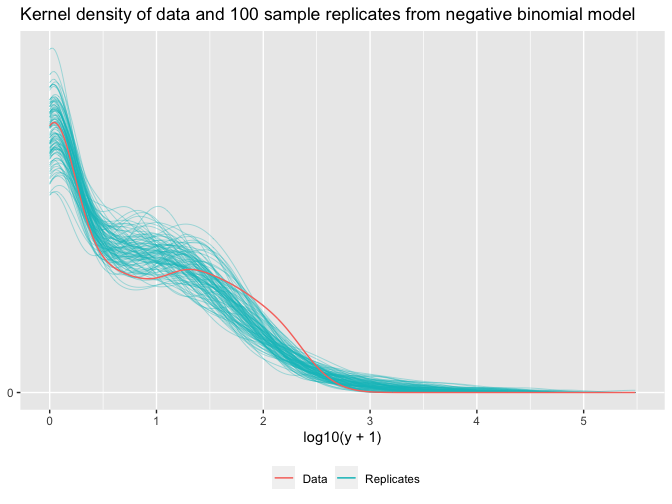
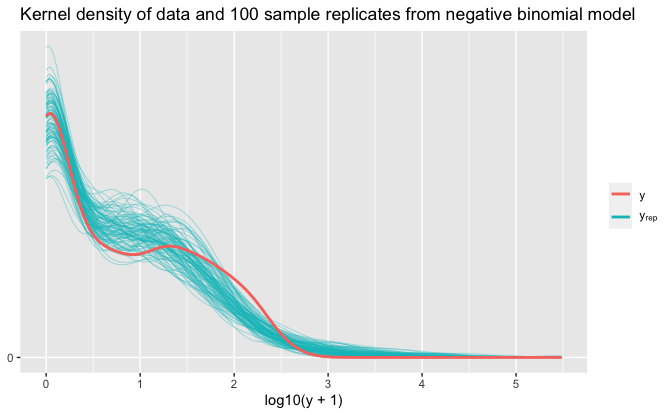
Initial commit

Changed region(s): [[0.0, 0.0, 1.0, 0.9253], [0.375, 0.9253, 0.625, 0.9831], [0.0, 0.7518, 0.0312, 0.7807]]

diff --git a/Roaches/roaches_tv.md b/Roaches/roaches_tv.md
@@ -1,7 +1,7 @@
 Regression and Other Stories: Roaches
 ================
 Andrew Gelman, Jennifer Hill, Aki Vehtari
-2021-02-25
+2021-02-26
 
 -   [15 Other generalized linear
     models](#15-other-generalized-linear-models)
@@ -36,24 +36,26 @@ file_common <- here::here("_common.R")
 
 # Functions
   # Plot kernel density of data and sample replicates
-plot_density_overlay <- function(mapping, data, data_rep) {
-  ggplot(mapping = mapping) +
+plot_density_overlay <- function(y, y_rep) {
+  ggplot(mapping = aes(y)) +
     stat_density(
       aes(group = rep, color = "y_rep"),
-      data = data_rep,
+      data = 
+        seq_len(nrow(y_rep)) %>% map_dfr(~ tibble(rep = ., y = y_rep[., ])),
       geom = "line",
       position = "identity",
       alpha = 0.5,
       size = 0.25
     ) +
-    stat_density(aes(color = "y"), data = data, geom = "line") +
+    stat_density(aes(color = "y"), data = tibble(y), geom = "line", size = 1) +
     scale_y_continuous(breaks = 0) +
     scale_color_discrete(
       breaks = c("y", "y_rep"),
-      labels = c("Data", "Replicates")
+      labels = c("y", expression(y[rep]))
     ) +
-    theme(legend.position = "bottom") +
+    theme(legend.text.align = 0) +
     labs(
+      x = NULL,
       y = NULL,
       color = NULL
     )
@@ -187,10 +189,6 @@ y_rep_nbinom <- posterior_predict(fit_nbinom)
 n_sims <- nrow(y_rep_nbinom)
 n_rep <- 100
 sims_sample <- sample(n_sims, n_rep)
-
-y_rep_nbinom_tidy <- 
-  seq_len(n_sims) %>% 
-  map_dfr(~ tibble(rep = ., y = y_rep_nbinom[., ]))
 ```
 
 Kernel density of data and 100 sample replicates from negative binomial
@@ -198,16 +196,16 @@ model.
 
 ``` r
 plot_density_overlay(
-  mapping = aes(log10(y + 1)), 
-  data = roaches,
-  data_rep = y_rep_nbinom_tidy %>% filter(rep %in% sims_sample)
+  y = log10(roaches$y + 1),
+  y_rep = log10(y_rep_nbinom[sims_sample, ] + 1)
 ) +
   scale_x_continuous(breaks = scales::breaks_width(1)) +
   labs(
     title = 
       str_glue(
         "Kernel density of data and {n_rep} sample replicates from negative binomial model"
-      )
+      ),
+    x = "log10(y + 1)"
   )
 ```
 
@@ -254,12 +252,9 @@ y_prop_0
     #> [1] 0.359
 
 ``` r
-y_rep_nbinom_prop_0 <- 
-  y_rep_nbinom_tidy %>% 
-  group_by(rep) %>% 
-  summarize(y_prop_0 = prop_0(y))
+y_rep_nbinom_prop_0 <- apply(y_rep_nbinom, 1, prop_0)
 
-summary(y_rep_nbinom_prop_0$y_prop_0)
+summary(y_rep_nbinom_prop_0)
 ```
 
     #>    Min. 1st Qu.  Median    Mean 3rd Qu.    Max. 
@@ -272,7 +267,7 @@ proportion in the data of 0.36.
 Distribution of proportion of zero counts in replicates.
 
 ``` r
-y_rep_nbinom_prop_0 %>% 
+tibble(y_prop_0 = y_rep_nbinom_prop_0) %>% 
   ggplot(aes(y_prop_0)) +
   geom_histogram(binwidth = 0.015) +
   geom_vline(xintercept = y_prop_0, color = "red") +
@@ -305,12 +300,9 @@ y_max
     #> [1] 357
 
 ``` r
-y_rep_nbinom_max <- 
-  y_rep_nbinom_tidy %>% 
-  group_by(rep) %>% 
-  summarize(y_max = max(y))
+y_rep_nbinom_max <- apply(y_rep_nbinom, 1, max)
 
-summary(y_rep_nbinom_max$y_max)
+summary(y_rep_nbinom_max)
 ```
 
     #>    Min. 1st Qu.  Median    Mean 3rd Qu.    Max. 
@@ -403,25 +395,21 @@ Simulate data for Poisson model.
 set.seed(SEED)
 
 y_rep_pois <- posterior_predict(fit_pois)
-
-y_rep_pois_tidy <- 
-  seq_len(n_sims) %>% 
-  map_dfr(~ tibble(rep = ., y = y_rep_pois[., ]))
 ```
 
 Kernel density of data and 100 sample replicates from Poisson model.
 
 ``` r
 plot_density_overlay(
-  mapping = aes(log10(y + 1)), 
-  data = roaches,
-  data_rep = y_rep_pois_tidy %>% filter(rep %in% sims_sample)
+  y = log10(roaches$y + 1),
+  y_rep = log10(y_rep_pois[sims_sample, ] + 1)
 ) +
   labs(
     title = 
       str_glue(
         "Kernel density of data and {n_rep} sample replicates from Poisson model"
-      )
+      ),
+    x = "log10(y + 1)"
   )
 ```
 
@@ -452,12 +440,9 @@ ppc_dens_overlay(
 Test statistic for proportion of zero counts.
 
 ``` r
-y_rep_pois_prop_0 <- 
-  y_rep_pois_tidy %>% 
-  group_by(rep) %>% 
-  summarize(y_prop_0 = prop_0(y))
+y_rep_pois_prop_0 <- apply(y_rep_pois, 1, prop_0)
 
-summary(y_rep_pois_prop_0$y_prop_0)
+summary(y_rep_pois_prop_0)
 ```
 
     #>    Min. 1st Qu.  Median    Mean 3rd Qu.    Max. 
@@ -592,10 +577,6 @@ Simulate data for zero-inflated negative binomial model.
 set.seed(SEED)
 
 y_rep_zinbinom <- posterior_predict(fit_zinbinom)
-
-y_rep_zinbinom_tidy <- 
-  seq_len(n_sims) %>% 
-  map_dfr(~ tibble(rep = ., y = y_rep_zinbinom[., ]))
 ```
 
 Kernel density of data and 100 sample replicates from zero-inflated
@@ -603,15 +584,15 @@ negative binomial model.
 
 ``` r
 plot_density_overlay(
-  mapping = aes(log10(y + 1)), 
-  data = roaches,
-  data_rep = y_rep_zinbinom_tidy %>% filter(rep %in% sims_sample)
+  y = log10(roaches$y + 1),
+  y_rep = log10(y_rep_zinbinom[sims_sample, ] + 1)
 ) +
   labs(
     title = 
       str_glue(
         "Kernel density of data and {n_rep} sample replicates\nfrom zero-inflated negative binomial model"
-      )
+      ),
+    x = "log10(y + 1)"
   )
 ```
 
@@ -647,12 +628,9 @@ ppc_dens_overlay(
 Test statistic for proportion of zero counts.
 
 ``` r
-y_rep_zinbinom_prop_0 <- 
-  y_rep_zinbinom_tidy %>% 
-  group_by(rep) %>% 
-  summarize(y_prop_0 = prop_0(y))
+y_rep_zinbinom_prop_0 <- apply(y_rep_zinbinom, 1, prop_0)
 
-summary(y_rep_zinbinom_prop_0$y_prop_0)
+summary(y_rep_zinbinom_prop_0)
 ```
 
     #>    Min. 1st Qu.  Median    Mean 3rd Qu.    Max. 
@@ -664,7 +642,7 @@ and mean of closer to the observed proportion in the data of 0.36.
 Distribution of proportion of zero counts in replicates.
 
 ``` r
-y_rep_zinbinom_prop_0 %>% 
+tibble(y_prop_0 = y_rep_zinbinom_prop_0) %>% 
   ggplot(aes(y_prop_0)) +
   geom_histogram(binwidth = 0.015) +
   geom_vline(xintercept = y_prop_0, color = "red") +
@@ -689,12 +667,9 @@ ppc_stat(y = roaches$y, yrep = y_rep_zinbinom, stat = function(x) mean(x == 0))
 ###### Maximum counts
 
 ``` r
-y_rep_zinbinom_max <- 
-  y_rep_zinbinom_tidy %>% 
-  group_by(rep) %>% 
-  summarize(y_max = max(y))
+y_rep_zinbinom_max <- apply(y_rep_zinbinom, 1, max)
 
-summary(y_rep_zinbinom_max$y_max)
+summary(y_rep_zinbinom_max)
 ```
 
     #>    Min. 1st Qu.  Median    Mean 3rd Qu.    Max. 
